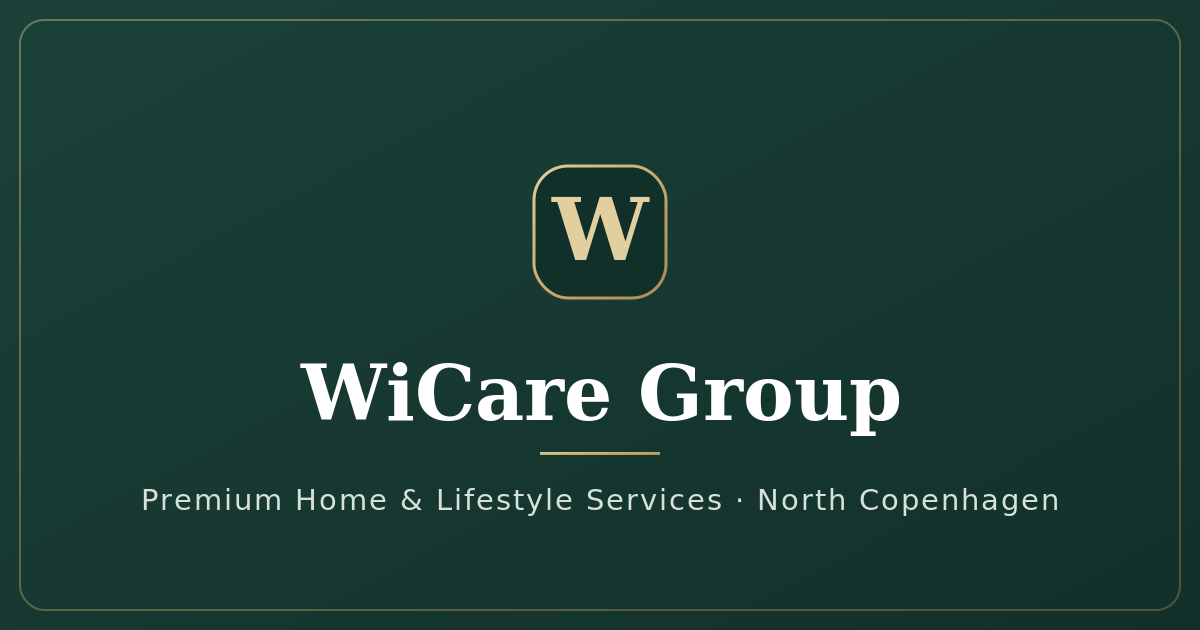
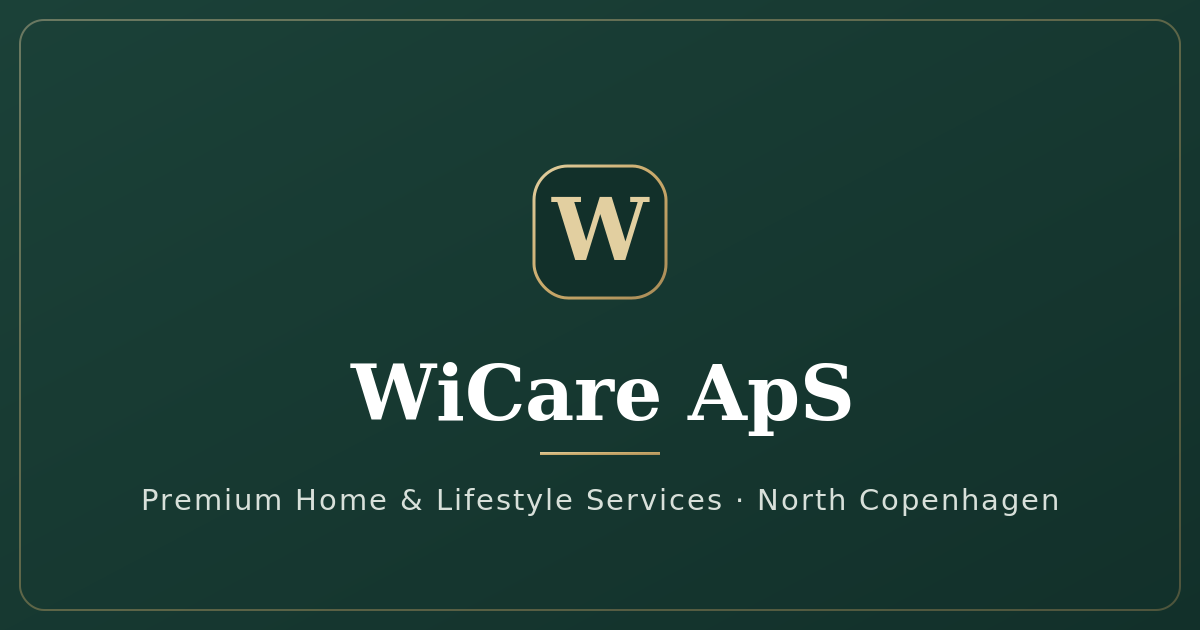
Rebrand display name WiCare Group -> WiCare ApS (titles, OG/Twitter, schema, share image, page meta)

Changed region(s): [[0.2467, 0.573, 0.7708, 0.6937]]

diff --git a/src/lib/i18n/translations.ts b/src/lib/i18n/translations.ts
@@ -16,7 +16,7 @@ const en = {
   careers: { badge: "Careers", nav: "Careers", heading: "Join WiCare", intro: "We are always looking for exceptional people who share our standards of discretion, precision, and care. We welcome unsolicited applications from talented professionals across home cleaning, private dining, and property care.", lookingTitle: "Who we look for", looking: ["Genuine pride in your craft and an eye for detail", "Discretion and absolute trustworthiness", "Reliability, punctuality, and professionalism", "Relevant experience and strong references"], howTitle: "How to apply", howIntro: "We read every application. To be considered, please be specific and include the following in your email:", items: ["The role or service you are applying for (Maison, La Table, or Le Domaine)", "Your CV, attached", "Your relevant experience and two references", "The languages you speak", "Whether you hold a valid driving licence", "Your earliest start date and weekly availability", "A short note: why WiCare, and what makes you exceptional"], applyCta: "Apply by Email", emailNote: "Applications are accepted by email only, at wicareaps@gmail.com.", emailSubject: "Application – [Your full name]", emailBody: "Hello WiCare,\n\nI would like to apply to join your team.\n\nRole / service of interest (Maison / La Table / Le Domaine):\nFull name:\nPhone:\nLanguages spoken:\nDriving licence (yes / no):\nYears of relevant experience:\nEarliest start date & weekly availability:\nTwo references (name + phone or email):\nWhy WiCare, and what makes you exceptional:\n\nI have attached my CV.\n\nKind regards," },
   servicePage: { included: "What's Included", whyChoose: "Why Choose", readyToBook: "Ready to Book?", callSchedulePre: "Call us to schedule your", callSchedulePost: "service.", backToServices: "Back to Services", alsoAvailable: "Also Available with Maison", alsoDesc: "While your home is being serviced, your WiCare team can handle these additional services, tailored to your agreement, never pre-bundled.", bookToday: "Book", bookTodayDesc: "All services are defined based on your agreement. Choose what you need, nothing is pre-bundled. Call us to schedule your", bookTodayDescEnd: "service. We respond within 2 business hours.", viewAll: "View all WiCare services" },
   serviceDetail: {
-    "maison": { name: "Maison", subtitle: "Executive Home Cleaning", longDescription: "Maison is our flagship service, the foundation of the WiCare Group. We provide premium residential cleaning for CEOs, executives, and high-net-worth individuals across the northern suburbs of Copenhagen. Every detail is handled with discretion, precision, and an uncompromising commitment to quality. Our teams are background-checked and trained to a white-glove standard.", features: ["Private residences & estates", "CEO-ready workspaces", "White-glove finish", "Smart product selection", "Background-checked staff", "Respectful of your home"], details: ["Discreet, professional service for discerning clients in the northern suburbs of Copenhagen", "Thoughtfully selected products balanced for safety and efficacy", "Flexible scheduling for mornings, evenings, weekends", "Dedicated team assigned to your property"] },
+    "maison": { name: "Maison", subtitle: "Executive Home Cleaning", longDescription: "Maison is our flagship service, the foundation of WiCare ApS. We provide premium residential cleaning for CEOs, executives, and high-net-worth individuals across the northern suburbs of Copenhagen. Every detail is handled with discretion, precision, and an uncompromising commitment to quality. Our teams are background-checked and trained to a white-glove standard.", features: ["Private residences & estates", "CEO-ready workspaces", "White-glove finish", "Smart product selection", "Background-checked staff", "Respectful of your home"], details: ["Discreet, professional service for discerning clients in the northern suburbs of Copenhagen", "Thoughtfully selected products balanced for safety and efficacy", "Flexible scheduling for mornings, evenings, weekends", "Dedicated team assigned to your property"] },
     "la-table": { name: "La Table", subtitle: "Private Dining & Catering", longDescription: "La Table brings professional fine-dining and catering expertise directly to your home. Whether it is an intimate dinner for two, a boardroom lunch, or a special celebration, every dish is prepared with precision, creativity, and genuine care. Menus are designed around your tastes and dietary needs.", features: ["Private chef dining", "Corporate catering", "Michelin pedigree", "Bespoke menus", "Wine pairing", "Event planning"], details: ["13+ years of Michelin-star and Danish Parliament experience", "Custom menu design for every occasion", "Ingredient sourcing from premium Danish purveyors", "Seamless setup, service, and cleanup"] },
     "le-domaine": { name: "Le Domaine", subtitle: "Premier Property & Lifestyle Care", longDescription: "Le Domaine is your comprehensive solution for property and lifestyle needs. From expert landscaping and garden design to construction projects, handyman repairs, dog walking, and watering plants. Our skilled professionals deliver the same standard of excellence that defines every WiCare brand. One trusted partner handles it all.", features: ["Landscaping & gardening", "Construction projects", "Handyman services", "Property maintenance", "Dog walking", "Watering plants"], details: ["Vetted, licensed professionals for every service", "Full project management from concept to completion", "Watering and tending your plants", "Dog walking with photo updates", "Transparent, fixed-price quotes"] }
   },
@@ -30,12 +30,12 @@ const en = {
       { h: "6. Contact", p: "For any privacy questions, contact WiCare Cleaning ApS (CVR-nummer: 46213270), Northern Suburbs of Copenhagen, Denmark. Phone: +45 52 72 11 02. Email: wicareaps@gmail.com." }
     ] },
     terms: { title: "Terms of Service", updated: "Last updated: June 2026", sections: [
-      { h: "1. Booking & Confirmation", p: "All services are booked via telephone at +45 52 72 11 02. A booking is confirmed once WiCare Group confirms availability. Services are subject to scheduler availability." },
-      { h: "2. Pricing & Payment", p: "Prices are quoted per hour and may vary by service tier. Payment is due upon completion unless otherwise agreed in writing. WiCare Group accepts bank transfer and major credit cards." },
-      { h: "3. Cancellation Policy", p: "Cancellations made less than 24 hours before the scheduled appointment may incur a fee of 50% of the estimated service value. WiCare Group reserves the right to cancel or reschedule due to unforeseen circumstances." },
-      { h: "4. Valuables & Liability", p: "Clients are responsible for storing cash, jewellery, and other valuables in a safe, secured place before each visit. WiCare Group is not liable for valuables left unsecured, for pre-existing damage, or for normal wear and tear. Responsibility for personal belongings remains with the client." },
+      { h: "1. Booking & Confirmation", p: "All services are booked via telephone at +45 52 72 11 02. A booking is confirmed once WiCare ApS confirms availability. Services are subject to scheduler availability." },
+      { h: "2. Pricing & Payment", p: "Prices are quoted per hour and may vary by service tier. Payment is due upon completion unless otherwise agreed in writing. WiCare ApS accepts bank transfer and major credit cards." },
+      { h: "3. Cancellation Policy", p: "Cancellations made less than 24 hours before the scheduled appointment may incur a fee of 50% of the estimated service value. WiCare ApS reserves the right to cancel or reschedule due to unforeseen circumstances." },
+      { h: "4. Valuables & Liability", p: "Clients are responsible for storing cash, jewellery, and other valuables in a safe, secured place before each visit. WiCare ApS is not liable for valuables left unsecured, for pre-existing damage, or for normal wear and tear. Responsibility for personal belongings remains with the client." },
       { h: "5. Privacy", p: "Client information is handled in accordance with our Privacy Policy. We never share personal data without explicit consent." },
-      { h: "6. Amendments", p: "WiCare Group reserves the right to amend these terms at any time. Clients will be notified of material changes." },
+      { h: "6. Amendments", p: "WiCare ApS reserves the right to amend these terms at any time. Clients will be notified of material changes." },
       { h: "Contact", p: "WiCare Cleaning ApS (CVR-nummer: 46213270), Northern Suburbs of Copenhagen, Denmark. Phone: +45 52 72 11 02. Email: wicareaps@gmail.com." }
     ] }
   }
@@ -57,7 +57,7 @@ const da: typeof en = {
   careers: { badge: "Karriere", nav: "Karriere", heading: "Bliv en del af WiCare", intro: "Vi søger altid exceptionelle mennesker, der deler vores standarder for diskretion, præcision og omhu. Vi modtager gerne uopfordrede ansøgninger fra dygtige fagfolk inden for hjemmerengøring, privat madlavning og ejendomspleje.", lookingTitle: "Hvem vi søger", looking: ["Ægte stolthed over dit håndværk og sans for detaljen", "Diskretion og absolut troværdighed", "Pålidelighed, punktlighed og professionalisme", "Relevant erfaring og stærke referencer"], howTitle: "Sådan ansøger du", howIntro: "Vi læser hver ansøgning. For at komme i betragtning bedes du være konkret og inkludere følgende i din email:", items: ["Den rolle eller service du søger (Maison, La Table eller Le Domaine)", "Dit CV, vedhæftet", "Din relevante erfaring og to referencer", "De sprog du taler", "Om du har et gyldigt kørekort", "Din tidligste startdato og ugentlige tilgængelighed", "En kort note: hvorfor WiCare, og hvad gør dig exceptionel"], applyCta: "Ansøg via Email", emailNote: "Ansøgninger modtages kun via email på wicareaps@gmail.com.", emailSubject: "Ansøgning – [Dit fulde navn]", emailBody: "Hej WiCare,\n\nJeg vil gerne ansøge om at blive en del af jeres team.\n\nRolle / service af interesse (Maison / La Table / Le Domaine):\nFulde navn:\nTelefon:\nSprog jeg taler:\nKørekort (ja / nej):\nÅrs relevant erfaring:\nTidligste startdato & ugentlige tilgængelighed:\nTo referencer (navn + telefon eller email):\nHvorfor WiCare, og hvad gør dig exceptionel:\n\nJeg har vedhæftet mit CV.\n\nVenlig hilsen," },
   servicePage: { included: "Hvad Er Inkluderet", whyChoose: "Hvorfor Vælge", readyToBook: "Klar til at Booke?", callSchedulePre: "Ring til os for at planlægge din", callSchedulePost: "service.", backToServices: "Tilbage til Services", alsoAvailable: "Også Tilgængelig med Maison", alsoDesc: "Mens dit hjem bliver serviceret, kan dit WiCare-team håndtere disse ekstra services, skræddersyet til din aftale, aldrig forudbestemt.", bookToday: "Bestil", bookTodayDesc: "Alle services defineres baseret på din aftale. Vælg hvad du har brug for, intet er forudbestemt. Ring til os for at planlægge din", bookTodayDescEnd: "service. Vi svarer inden for 2 arbejdstimer.", viewAll: "Se alle WiCare services" },
   serviceDetail: {
-    "maison": { name: "Maison", subtitle: "Eksklusiv Hjemmerengøring", longDescription: "Maison er vores flagskibsservice og fundamentet for WiCare Group. Vi leverer premium boligrengøring til direktører, ledere og personer med høj nettoformue i Københavns nordlige forstæder. Hver detalje håndteres med diskretion, præcision og en kompromisløs forpligtelse til kvalitet. Vores teams er baggrundstjekkede og trænet til en white-glove standard.", features: ["Private boliger & ejendomme", "Direktørklare arbejdspladser", "White-glove finish", "Smart produktvalg", "Baggrundstjekket personale", "Respekt for dit hjem"], details: ["Diskret, professionel service for kræsne kunder i Københavns nordlige forstæder", "Omhyggeligt udvalgte produkter balanceret for sikkerhed og effektivitet", "Fleksibel planlægning til morgener, aftener og weekender", "Dedikeret team tildelt din ejendom"] },
+    "maison": { name: "Maison", subtitle: "Eksklusiv Hjemmerengøring", longDescription: "Maison er vores flagskibsservice og fundamentet for WiCare ApS. Vi leverer premium boligrengøring til direktører, ledere og personer med høj nettoformue i Københavns nordlige forstæder. Hver detalje håndteres med diskretion, præcision og en kompromisløs forpligtelse til kvalitet. Vores teams er baggrundstjekkede og trænet til en white-glove standard.", features: ["Private boliger & ejendomme", "Direktørklare arbejdspladser", "White-glove finish", "Smart produktvalg", "Baggrundstjekket personale", "Respekt for dit hjem"], details: ["Diskret, professionel service for kræsne kunder i Københavns nordlige forstæder", "Omhyggeligt udvalgte produkter balanceret for sikkerhed og effektivitet", "Fleksibel planlægning til morgener, aftener og weekender", "Dedikeret team tildelt din ejendom"] },
     "la-table": { name: "La Table", subtitle: "Privat Madlavning & Catering", longDescription: "La Table bringer professionel fine-dining- og cateringekspertise direkte til dit hjem. Uanset om det er en intim middag for to, en frokost i bestyrelseslokalet eller en særlig fejring, tilberedes hver ret med præcision, kreativitet og ægte omhu. Menuer designes ud fra din smag og dine kostbehov.", features: ["Privat kokmiddag", "Erhvervscatering", "Michelin-baggrund", "Skræddersyede menuer", "Vinmenu", "Eventplanlægning"], details: ["13+ års erfaring fra Michelin-restauranter og Folketinget", "Skræddersyet menudesign til enhver lejlighed", "Råvarer fra førende danske leverandører", "Problemfri opdækning, servering og oprydning"] },
     "le-domaine": { name: "Le Domaine", subtitle: "Førende Ejendoms- & Livsstilspleje", longDescription: "Le Domaine er din samlede løsning til ejendoms- og livsstilsbehov. Fra ekspert-landskabspleje og havedesign til byggeprojekter, handyman-reparationer, hundeluftning og vanding af planter. Vores dygtige fagfolk leverer den samme høje standard, der definerer alle WiCare-brands. Én betroet partner klarer det hele.", features: ["Landskabspleje & havearbejde", "Byggeprojekter", "Handyman-service", "Ejendomsvedligeholdelse", "Hundeluftning", "Vanding af planter"], details: ["Godkendte, autoriserede fagfolk til hver service", "Fuld projektledelse fra idé til færdiggørelse", "Vanding og pasning af planter", "Hundeluftning med fotoopdateringer", "Gennemsigtige tilbud til fast pris"] }
   },
@@ -71,12 +71,12 @@ const da: typeof en = {
       { h: "6. Kontakt", p: "For spørgsmål om privatliv, kontakt WiCare Cleaning ApS (CVR-nummer: 46213270), Københavns nordlige forstæder, Danmark. Telefon: +45 52 72 11 02. Email: wicareaps@gmail.com." }
     ] },
     terms: { title: "Servicevilkår", updated: "Senest opdateret: juni 2026", sections: [
-      { h: "1. Booking & Bekræftelse", p: "Alle services bookes telefonisk på +45 52 72 11 02. En booking bekræftes, når WiCare Group bekræfter tilgængelighed. Services er underlagt planlæggerens tilgængelighed." },
-      { h: "2. Priser & Betaling", p: "Priser oplyses pr. time og kan variere efter serviceniveau. Betaling forfalder ved færdiggørelse, medmindre andet er skriftligt aftalt. WiCare Group accepterer bankoverførsel og større kreditkort." },
-      { h: "3. Afbestillingspolitik", p: "Afbestillinger foretaget mindre end 24 timer før den planlagte aftale kan medføre et gebyr på 50% af den anslåede serviceværdi. WiCare Group forbeholder sig retten til at aflyse eller omlægge på grund af uforudsete omstændigheder." },
-      { h: "4. Værdigenstande & Ansvar", p: "Kunder er ansvarlige for at opbevare kontanter, smykker og andre værdigenstande på et sikkert, aflåst sted inden hvert besøg. WiCare Group er ikke ansvarlig for værdigenstande, der efterlades usikrede, for eksisterende skader eller for almindeligt slid. Ansvaret for personlige ejendele forbliver hos kunden." },
+      { h: "1. Booking & Bekræftelse", p: "Alle services bookes telefonisk på +45 52 72 11 02. En booking bekræftes, når WiCare ApS bekræfter tilgængelighed. Services er underlagt planlæggerens tilgængelighed." },
+      { h: "2. Priser & Betaling", p: "Priser oplyses pr. time og kan variere efter serviceniveau. Betaling forfalder ved færdiggørelse, medmindre andet er skriftligt aftalt. WiCare ApS accepterer bankoverførsel og større kreditkort." },
+      { h: "3. Afbestillingspolitik", p: "Afbestillinger foretaget mindre end 24 timer før den planlagte aftale kan medføre et gebyr på 50% af den anslåede serviceværdi. WiCare ApS forbeholder sig retten til at aflyse eller omlægge på grund af uforudsete omstændigheder." },
+      { h: "4. Værdigenstande & Ansvar", p: "Kunder er ansvarlige for at opbevare kontanter, smykker og andre værdigenstande på et sikkert, aflåst sted inden hvert besøg. WiCare ApS er ikke ansvarlig for værdigenstande, der efterlades usikrede, for eksisterende skader eller for almindeligt slid. Ansvaret for personlige ejendele forbliver hos kunden." },
       { h: "5. Privatliv", p: "Kundeoplysninger håndteres i overensstemmelse med vores Privatlivspolitik. Vi deler aldrig personoplysninger uden udtrykkeligt samtykke." },
-      { h: "6. Ændringer", p: "WiCare Group forbeholder sig retten til at ændre disse vilkår til enhver tid. Kunder vil blive underrettet om væsentlige ændringer." },
+      { h: "6. Ændringer", p: "WiCare ApS forbeholder sig retten til at ændre disse vilkår til enhver tid. Kunder vil blive underrettet om væsentlige ændringer." },
       { h: "Kontakt", p: "WiCare Cleaning ApS (CVR-nummer: 46213270), Københavns nordlige forstæder, Danmark. Telefon: +45 52 72 11 02. Email: wicareaps@gmail.com." }
     ] }
   }

diff --git a/src/app/layout.tsx b/src/app/layout.tsx
@@ -11,21 +11,21 @@ import { LanguageProvider } from "@/lib/i18n/LanguageContext";
 const siteUrl = process.env.NEXT_PUBLIC_SITE_URL || "https://wicare.vip";
 
 export const metadata: Metadata = {
-  title: "WiCare Group | Premium Home & Lifestyle Services, North Copenhagen",
-  description: "WiCare Group offers premium home and lifestyle services in the northern suburbs of Copenhagen: Maison, La Table, and Le Domaine.",
+  title: "WiCare ApS | Premium Home & Lifestyle Services, North Copenhagen",
+  description: "WiCare ApS offers premium home and lifestyle services in the northern suburbs of Copenhagen: Maison, La Table, and Le Domaine.",
   keywords: ["luxury home services North Copenhagen", "private chef Hellerup", "premium cleaning Gentofte", "executive lifestyle services Rudersdal", "WiCare", "concierge services Hellerup", "home services Hørsholm", "property care Charlottenlund", "Strandvejen luxury services", "Maison", "La Table", "Le Domaine"],
   metadataBase: new URL(siteUrl),
   alternates: { canonical: "/" },
   openGraph: {
-    type: "website", locale: "en_DK", siteName: "WiCare Group",
-    title: "WiCare Group | Premium Home & Lifestyle Services",
+    type: "website", locale: "en_DK", siteName: "WiCare ApS",
+    title: "WiCare ApS | Premium Home & Lifestyle Services",
     description: "Premium home and lifestyle services delivered with discretion, precision, and trust, across the northern suburbs of Copenhagen.",
     url: siteUrl,
-    images: [{ url: "/og-image.png", width: 1200, height: 630, alt: "WiCare Group" }],
+    images: [{ url: "/og-image.png", width: 1200, height: 630, alt: "WiCare ApS" }],
   },
   twitter: {
     card: "summary_large_image",
-    title: "WiCare Group | Premium Home & Lifestyle Services",
+    title: "WiCare ApS | Premium Home & Lifestyle Services",
     description: "Premium home and lifestyle services delivered with discretion, precision, and trust.",
     images: ["/og-image.png"],
   },
@@ -60,7 +60,7 @@ j=d.createElement(s),dl=l!='dataLayer'?'&l='+l:'';j.async=true;j.src=
               "@context": "https://schema.org",
               "@type": "LocalBusiness",
               "@id": `${siteUrl}/#business`,
-              name: "WiCare Group",
+              name: "WiCare ApS",
               url: siteUrl,
               logo: `${siteUrl}/logo.png`,
               image: `${siteUrl}/og-image.png`,

diff --git a/src/lib/services.ts b/src/lib/services.ts
@@ -15,7 +15,7 @@ export const services: Service[] = [
     name: 'Maison',
     subtitle: 'Executive Home Cleaning',
     description: 'Premium residential cleaning for CEOs and industry leaders. Discreet, meticulous, and tailored to the highest standards of luxury living.',
-    longDescription: 'Maison is our flagship service, the foundation of the WiCare Group. We provide premium residential cleaning for CEOs, executives, and high-net-worth individuals across the northern suburbs of Copenhagen. Every detail is handled with discretion, precision, and an uncompromising commitment to quality. Our teams are background-checked and trained to a white-glove standard.',
+    longDescription: 'Maison is our flagship service, the foundation of WiCare ApS. We provide premium residential cleaning for CEOs, executives, and high-net-worth individuals across the northern suburbs of Copenhagen. Every detail is handled with discretion, precision, and an uncompromising commitment to quality. Our teams are background-checked and trained to a white-glove standard.',
     features: ['Private residences & estates', 'CEO-ready workspaces', 'White-glove finish', 'Smart product selection', 'Background-checked staff', 'Respectful of your home'],
     details: ['Serving the northern suburbs\' most discerning clients since 2016', 'Thoughtfully selected products balanced for safety and efficacy', 'Flexible scheduling for mornings, evenings, weekends', 'Dedicated team assigned to your property'],
     highlight: true,

diff --git a/src/app/services/[slug]/page.tsx b/src/app/services/[slug]/page.tsx
@@ -11,14 +11,14 @@ export async function generateMetadata({ params }: { params: Promise<{ slug: str
   const service = services.find((s) => s.slug === slug);
   if (!service) return {};
   return {
-    title: `${service.name} | WiCare Group North Copenhagen`,
+    title: `${service.name} | WiCare ApS North Copenhagen`,
     description: service.description,
-    keywords: [`${service.name}`, `${service.subtitle}`, 'North Copenhagen', 'Hellerup', 'Gentofte', 'luxury home services', 'WiCare Group'],
+    keywords: [`${service.name}`, `${service.subtitle}`, 'North Copenhagen', 'Hellerup', 'Gentofte', 'luxury home services', 'WiCare ApS'],
     openGraph: {
-      title: `${service.name} | WiCare Group`,
+      title: `${service.name} | WiCare ApS`,
       description: service.description,
       url: `/services/${service.slug}/`,
-      siteName: 'WiCare Group',
+      siteName: 'WiCare ApS',
       locale: 'en_DK',
       type: 'website',
     },
@@ -43,7 +43,7 @@ export default async function ServicePage({ params }: { params: Promise<{ slug: 
             description: service.description,
             provider: {
               '@type': 'Organization',
-              name: 'WiCare Group',
+              name: 'WiCare ApS',
               address: { '@type': 'PostalAddress', addressLocality: 'Hellerup', addressRegion: 'Capital Region of Denmark', addressCountry: 'DK' },
             },
             areaServed: [

diff --git a/src/app/blog/[slug]/page.tsx b/src/app/blog/[slug]/page.tsx
@@ -14,15 +14,15 @@ export async function generateMetadata({ params }: { params: Promise<{ slug: str
   if (!post) return {};
   const c = post.en;
   return {
-    title: `${c.title} | WiCare Group`,
+    title: `${c.title} | WiCare ApS`,
     description: c.description,
-    keywords: [post.category, 'North Copenhagen', 'Hellerup', 'Gentofte', 'WiCare Group'],
+    keywords: [post.category, 'North Copenhagen', 'Hellerup', 'Gentofte', 'WiCare ApS'],
     alternates: { canonical: `/blog/${post.slug}/` },
     openGraph: {
       title: c.title,
       description: c.description,
       url: `/blog/${post.slug}/`,
-      siteName: 'WiCare Group',
+      siteName: 'WiCare ApS',
       locale: 'en_DK',
       type: 'article',
       publishedTime: post.date,
@@ -52,10 +52,10 @@ export default async function BlogPostPage({ params }: { params: Promise<{ slug:
             url: `${siteUrl}/blog/${post.slug}/`,
             mainEntityOfPage: `${siteUrl}/blog/${post.slug}/`,
             image: `${siteUrl}/og-image.png`,
-            author: { '@type': 'Organization', name: 'WiCare Group' },
+            author: { '@type': 'Organization', name: 'WiCare ApS' },
             publisher: {
               '@type': 'Organization',
-              name: 'WiCare Group',
+              name: 'WiCare ApS',
               logo: { '@type': 'ImageObject', url: `${siteUrl}/logo.png` },
             },
           }),

diff --git a/src/app/terms/page.tsx b/src/app/terms/page.tsx
@@ -1,14 +1,14 @@
 import LegalContent from '@/components/LegalContent';
 
 export const metadata = {
-  title: 'Terms of Service | WiCare Group',
-  description: 'Terms and conditions for WiCare Group premium lifestyle services in the northern suburbs of Copenhagen.',
+  title: 'Terms of Service | WiCare ApS',
+  description: 'Terms and conditions for WiCare ApS premium lifestyle services in the northern suburbs of Copenhagen.',
   alternates: { canonical: '/terms/' },
   openGraph: {
-    title: 'Terms of Service | WiCare Group',
-    description: 'Terms and conditions for WiCare Group premium lifestyle services in the northern suburbs of Copenhagen.',
+    title: 'Terms of Service | WiCare ApS',
+    description: 'Terms and conditions for WiCare ApS premium lifestyle services in the northern suburbs of Copenhagen.',
     url: '/terms/',
-    siteName: 'WiCare Group',
+    siteName: 'WiCare ApS',
     locale: 'en_DK',
     type: 'website',
   },

diff --git a/src/app/privacy/page.tsx b/src/app/privacy/page.tsx
@@ -1,14 +1,14 @@
 import LegalContent from '@/components/LegalContent';
 
 export const metadata = {
-  title: 'Privacy Policy | WiCare Group',
-  description: 'Privacy policy for WiCare Group. How we collect, use, and protect your personal data.',
+  title: 'Privacy Policy | WiCare ApS',
+  description: 'Privacy policy for WiCare ApS. How we collect, use, and protect your personal data.',
   alternates: { canonical: '/privacy/' },
   openGraph: {
-    title: 'Privacy Policy | WiCare Group',
-    description: 'Privacy policy for WiCare Group. How we collect, use, and protect your personal data.',
+    title: 'Privacy Policy | WiCare ApS',
+    description: 'Privacy policy for WiCare ApS. How we collect, use, and protect your personal data.',
     url: '/privacy/',
-    siteName: 'WiCare Group',
+    siteName: 'WiCare ApS',
     locale: 'en_DK',
     type: 'website',
   },

diff --git a/src/app/careers/page.tsx b/src/app/careers/page.tsx
@@ -1,14 +1,14 @@
 import Careers from '@/components/Careers';
 
 export const metadata = {
-  title: 'Careers | Join WiCare Group, North Copenhagen',
+  title: 'Careers | Join WiCare ApS, North Copenhagen',
   description: 'WiCare welcomes unsolicited applications from exceptional home cleaning, private chef, and property care professionals in North Copenhagen. Apply by email.',
   alternates: { canonical: '/careers/' },
   openGraph: {
-    title: 'Careers | Join WiCare Group',
+    title: 'Careers | Join WiCare ApS',
     description: 'We welcome unsolicited applications from exceptional people across home cleaning, private dining, and property care in North Copenhagen.',
     url: '/careers/',
-    siteName: 'WiCare Group',
+    siteName: 'WiCare ApS',
     locale: 'en_DK',
     type: 'website',
   },

diff --git a/src/app/blog/page.tsx b/src/app/blog/page.tsx
@@ -1,14 +1,14 @@
 import BlogList from '@/components/BlogList';
 
 export const metadata = {
-  title: 'Insights & Guides | WiCare Group North Copenhagen',
+  title: 'Insights & Guides | WiCare ApS North Copenhagen',
   description: 'Practical advice on luxury home cleaning, private dining and property care in the northern suburbs of Copenhagen: Hellerup, Gentofte, Rudersdal and more.',
   alternates: { canonical: '/blog/' },
   openGraph: {
-    title: 'Insights & Guides | WiCare Group',
+    title: 'Insights & Guides | WiCare ApS',
     description: 'Practical advice on home, lifestyle and property care in the northern suburbs of Copenhagen.',
     url: '/blog/',
-    siteName: 'WiCare Group',
+    siteName: 'WiCare ApS',
     locale: 'en_DK',
     type: 'website',
   },

diff --git a/src/components/Navbar.tsx b/src/components/Navbar.tsx
@@ -28,7 +28,7 @@ export default function Navbar() {
     <header className={`fixed top-0 left-0 right-0 z-50 transition-all duration-500 ${scrolled ? 'bg-white/95 backdrop-blur-md shadow-sm' : 'bg-transparent'}`}>
       <div className="max-w-7xl mx-auto px-6 lg:px-8">
         <div className="flex items-center justify-between h-20">
-          <Link href="/" className="flex items-center gap-3" aria-label="WiCare Group home">
+          <Link href="/" className="flex items-center gap-3" aria-label="WiCare ApS home">
             <Logo size={42} />
             <div>
               <span className={`font-serif text-xl font-semibold tracking-wide transition-colors duration-300 ${scrolled ? 'text-primary' : 'text-white'}`}>WiCare</span>

diff --git a/src/components/Footer.tsx b/src/components/Footer.tsx
@@ -10,7 +10,7 @@ export default function Footer() {
     <footer className="bg-primary text-white py-14 border-t border-white/10">
       <div className="max-w-7xl mx-auto px-6 lg:px-8">
         <div className="flex flex-col items-center text-center mb-12">
-          <Link href="/" className="flex items-center gap-3" aria-label="WiCare Group home">
+          <Link href="/" className="flex items-center gap-3" aria-label="WiCare ApS home">
             <Logo size={44} />
             <div className="text-left">
               <span className="font-serif text-2xl font-semibold tracking-wide">WiCare</span>

diff --git a/src/app/card/page.tsx b/src/app/card/page.tsx
@@ -1,8 +1,8 @@
 import BusinessCard from '@/components/BusinessCard';
 
 export const metadata = {
-  title: 'WiCare Group | Contact Card',
-  description: 'WiCare Group digital business card: call, email, save our contact, or scan the QR code. Premium home and lifestyle services in North Copenhagen.',
+  title: 'WiCare ApS | Contact Card',
+  description: 'WiCare ApS digital business card: call, email, save our contact, or scan the QR code. Premium home and lifestyle services in North Copenhagen.',
   alternates: { canonical: '/card/' },
   robots: { index: false, follow: true },
 };
